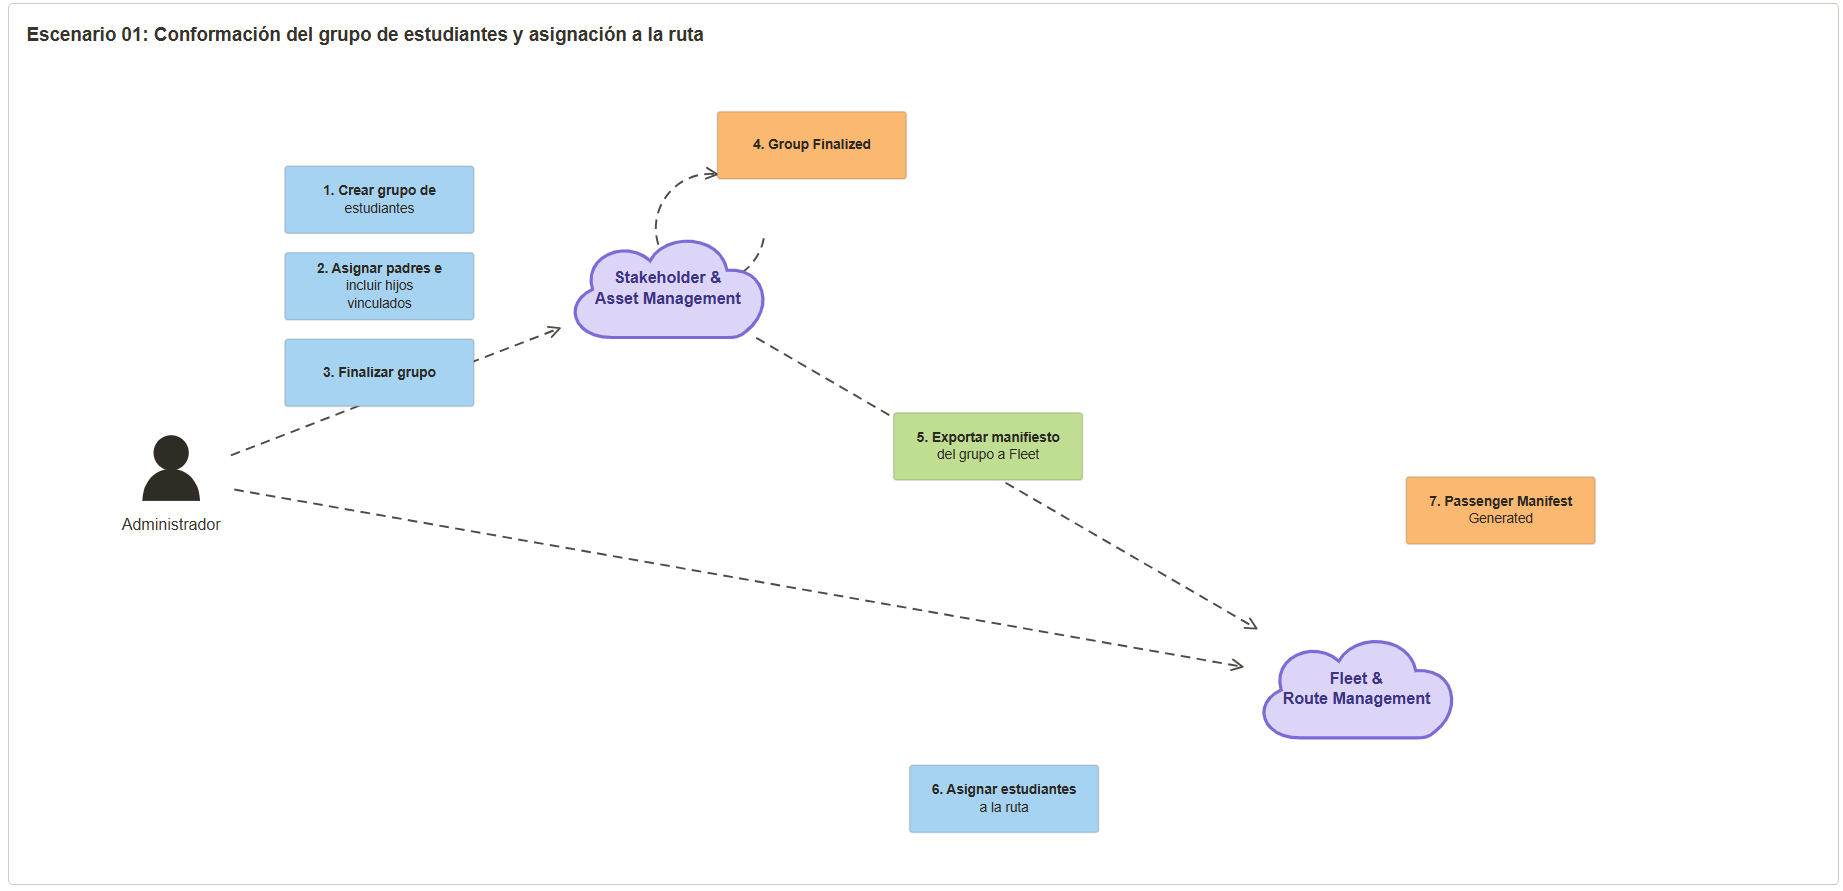
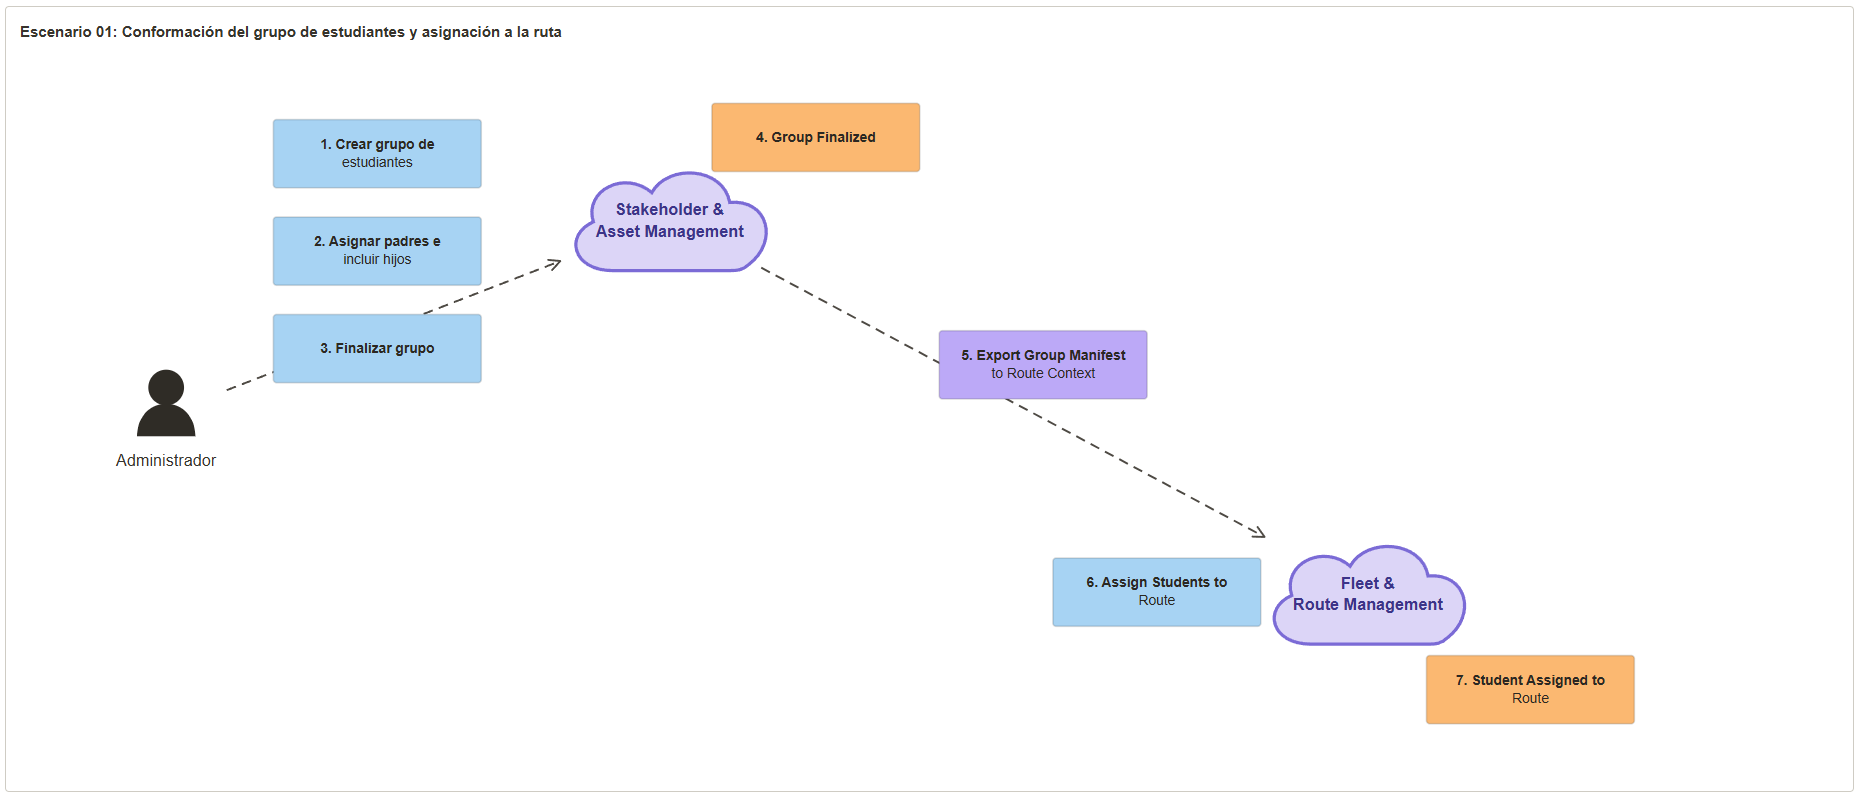
"docs: updated Domain Message Flows Modeling again"

diff --git a/README.md b/README.md
@@ -2716,6 +2716,80 @@ La capacidad que distingue a RouteGuard es la combinación de resiliencia ante l
  
 **Subscription & Plan Management** no tiene ninguna conexión hacia otro Bounded Context: su único vínculo externo es con la pasarela de pago (Payment Gateway), un sistema externo. Ningún otro contexto consulta sus cuotas o límites en tiempo real.
 
+#### 2.5.1.2. Domain Message Flows Modeling
+ 
+El *Domain Message Flow Modelling* es una técnica que permite representar cómo fluyen los mensajes de dominio —*commands*, *events* y *queries*— entre los distintos Bounded Contexts del sistema. Su propósito es clarificar las interacciones, dependencias y responsabilidades de cada contexto al resolver un caso concreto del negocio.
+
+Para cada escenario se documenta la secuencia numerada de mensajes, que es la que se representa en el diagrama: los comandos en azul, los eventos en naranja y las políticas en morado, con los contextos dibujados como nubes.
+ 
+**Escenario 01: Conformación del grupo de estudiantes y asignación a la ruta**
+ 
+| # | Tipo | Mensaje | Origen | Destino |
+|---|---|---|---|---|
+| 1 | Command | Crear grupo de estudiantes | Administrador | Stakeholder & Asset Management |
+| 2 | Command | Asignar padres e incluir hijos vinculados | Administrador | Stakeholder & Asset Management |
+| 3 | Command | Finalizar grupo | Administrador | Stakeholder & Asset Management |
+| 4 | Event | `Group Finalized` | Stakeholder & Asset Management | Stakeholder & Asset Management |
+| 5 | Policy | `Export Group Manifest to Route Context` | Stakeholder & Asset Management | Fleet & Route Management |
+| 6 | Command | `Assign Students to Route` | Fleet & Route Management | Fleet & Route Management |
+| 7 | Event | `Student Assigned to Route` | Fleet & Route Management | Fleet & Route Management |
+ 
+![Escenario 01: Conformación de grupo y asignación a ruta](resources/chapter-2/Domain-Message-Flows/escenario-01-grupo-ruta.png)
+ 
+Este es el único cruce del sistema donde la conexión pasa explícitamente por una política (post-it morado) antes del comando destino, en vez de ir directo de evento a comando.
+ 
+**Escenario 02: Activación de ruta e inicio del viaje**
+ 
+| # | Tipo | Mensaje | Origen | Destino |
+|---|---|---|---|---|
+| 1 | Command | Definir días de servicio y hora de salida | Administrador | Fleet & Route Management |
+| 2 | Event | `Route Activation Finalized` | Fleet & Route Management | Trip Execution & Monitoring |
+| 3 | Command | `Start Trip` | Conductor | Trip Execution & Monitoring |
+| 4 | Event | `Trip Started` | Trip Execution & Monitoring | Trip Execution & Monitoring |
+ 
+![Escenario 02: Activación de ruta e inicio del viaje](resources/chapter-2/Domain-Message-Flows/escenario-02-activacion-inicio.png)
+ 
+`Route Activation Finalized` es evento pivote: marca el punto exacto donde el plan de ruta, propiedad de Fleet & Route Management, deja de poder modificarse en caliente y habilita a Trip Execution & Monitoring a operar sobre él.
+ 
+**Escenario 03: Transmisión de ubicación en tiempo real y alerta de geocerca**
+ 
+| # | Tipo | Mensaje | Origen | Destino |
+|---|---|---|---|---|
+| 1 | Command | Transmitir ubicación en segundo plano | App del conductor | Trip Execution & Monitoring |
+| 2 | Event | `Location Updated` | Trip Execution & Monitoring | RabbitMQ (broker) |
+| 3 | Event | Recibe de broker | RabbitMQ (broker) | Notifications & Communication |
+| 4 | Command | Evaluar intersección de geocerca | Notifications & Communication | Notifications & Communication |
+| 5 | Event | `Geofence Breached` | Notifications & Communication | Notifications & Communication |
+| 6 | Command | `Dispatch Notification` | Notifications & Communication | Proveedor push (FCM) |
+| 7 | Event | `Notification Sent` | Proveedor push (FCM) | Padre de familia |
+ 
+![Escenario 03: Ubicación en tiempo real y alerta de geocerca](resources/chapter-2/Domain-Message-Flows/escenario-03-geofence.png)
+ 
+Este escenario sustenta directamente el Objetivo SMART 4 (latencia menor a 5 segundos entre la transmisión de ubicación y la alerta recibida por el padre). A diferencia del Escenario 01, aquí no hay una política intermedia visible en el Miro entre `Location Updated` y la evaluación de geocerca; el paso 4 representa el comando implícito que Notifications & Communication ejecuta al consumir el evento del broker.
+ 
+**Escenario 04: Abordaje e incidencia notificados al padre**
+ 
+| # | Tipo | Mensaje | Origen | Destino |
+|---|---|---|---|---|
+| 1 | Command | Marcar abordaje | Conductor | Trip Execution & Monitoring |
+| 2 | Event | `Student Boarded` | Trip Execution & Monitoring | RabbitMQ (broker) |
+| 3 | Event | Recibe de broker | RabbitMQ (broker) | Notifications & Communication |
+| 4 | Event | `Notification Sent` | Notifications & Communication | Padre de familia |
+| 5 | Command | Reportar incidencia | Conductor | Trip Execution & Monitoring |
+| 6 | Event | `Incident Reported` | Trip Execution & Monitoring | RabbitMQ (broker) |
+| 7 | Event | Recibe de broker | RabbitMQ (broker) | Notifications & Communication |
+| 8 | Command | `Trigger Panic Alert` | Notifications & Communication | Notifications & Communication |
+| 9 | Event | `High Priority Alert Created` | Notifications & Communication | Notifications & Communication |
+| 10 | Event | `Notification Sent` | Notifications & Communication | Padre de familia |
+ 
+![Escenario 04: Abordaje e incidencia](resources/chapter-2/Domain-Message-Flows/escenario-04-abordaje-incidencia.png)
+ 
+Ambas rutas —abordaje e incidencia— llegan a Notifications & Communication como eventos consumidos, sin que Trip Execution & Monitoring conozca la lógica de despacho ni de priorización.
+
+#### 2.5.1.3. Bounded Context Canvases
+
+### 2.5.2. Context Mapping
+
 ### 2.5.3. Software Architecture
 
 #### 2.5.3.1. Software Architecture Context Level Diagrams
